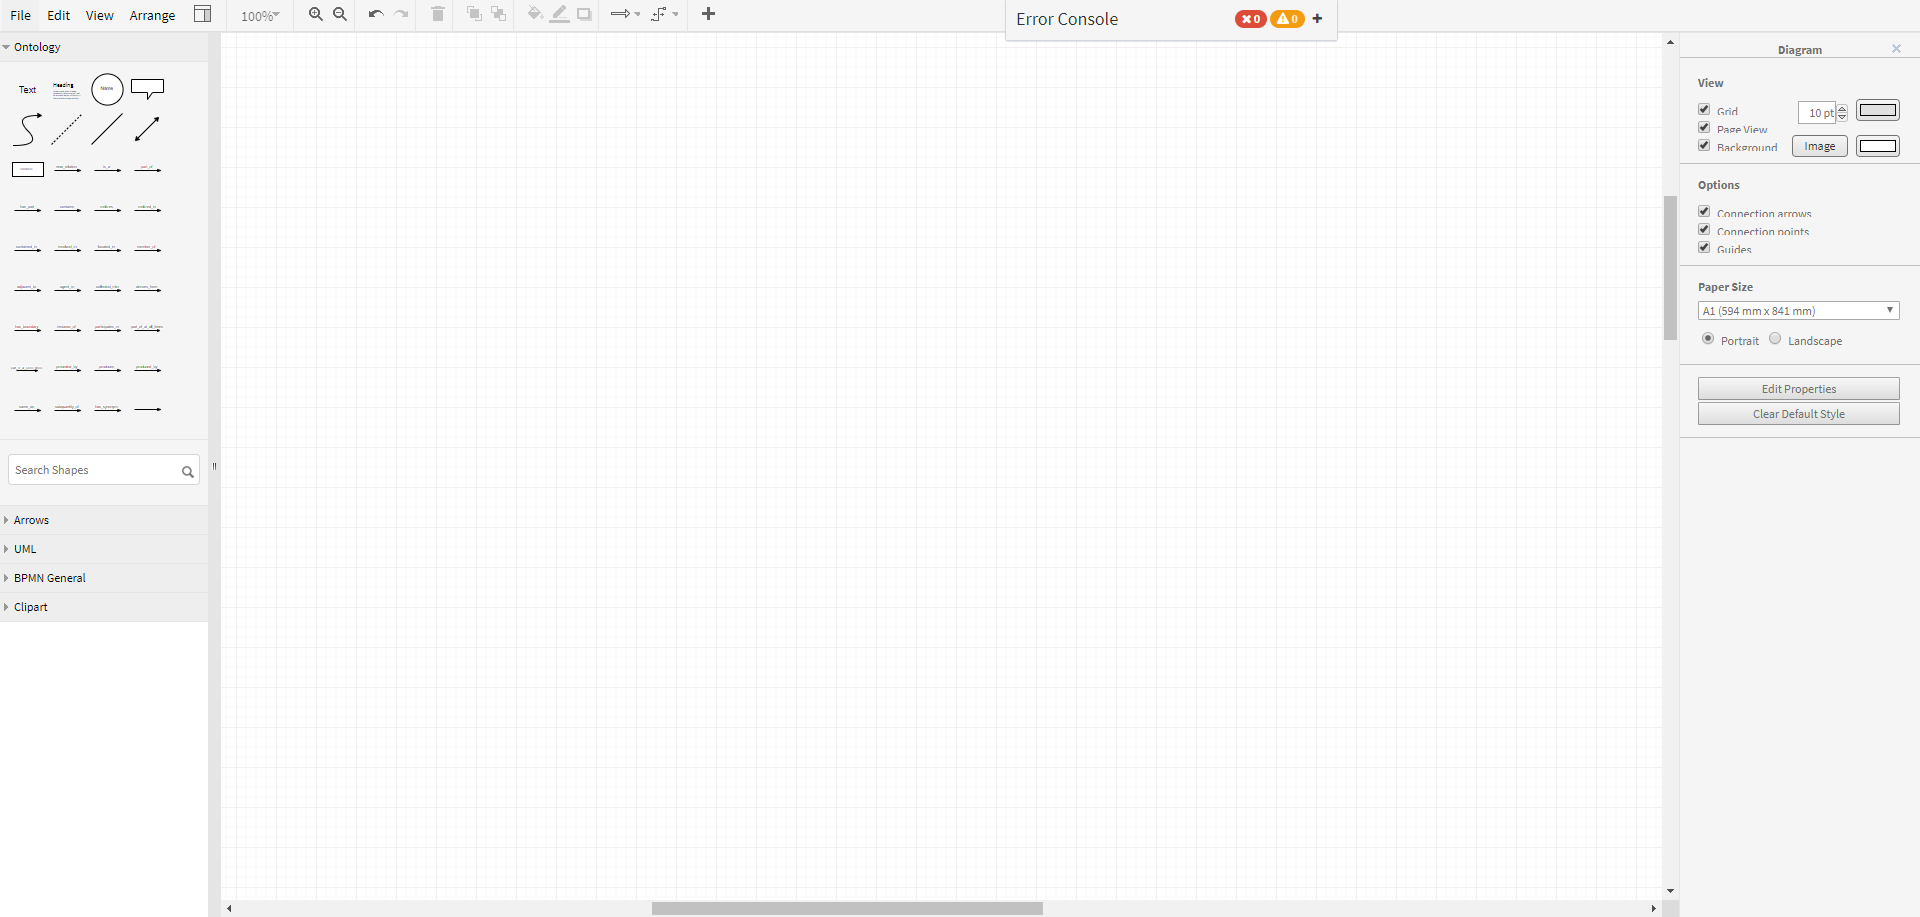
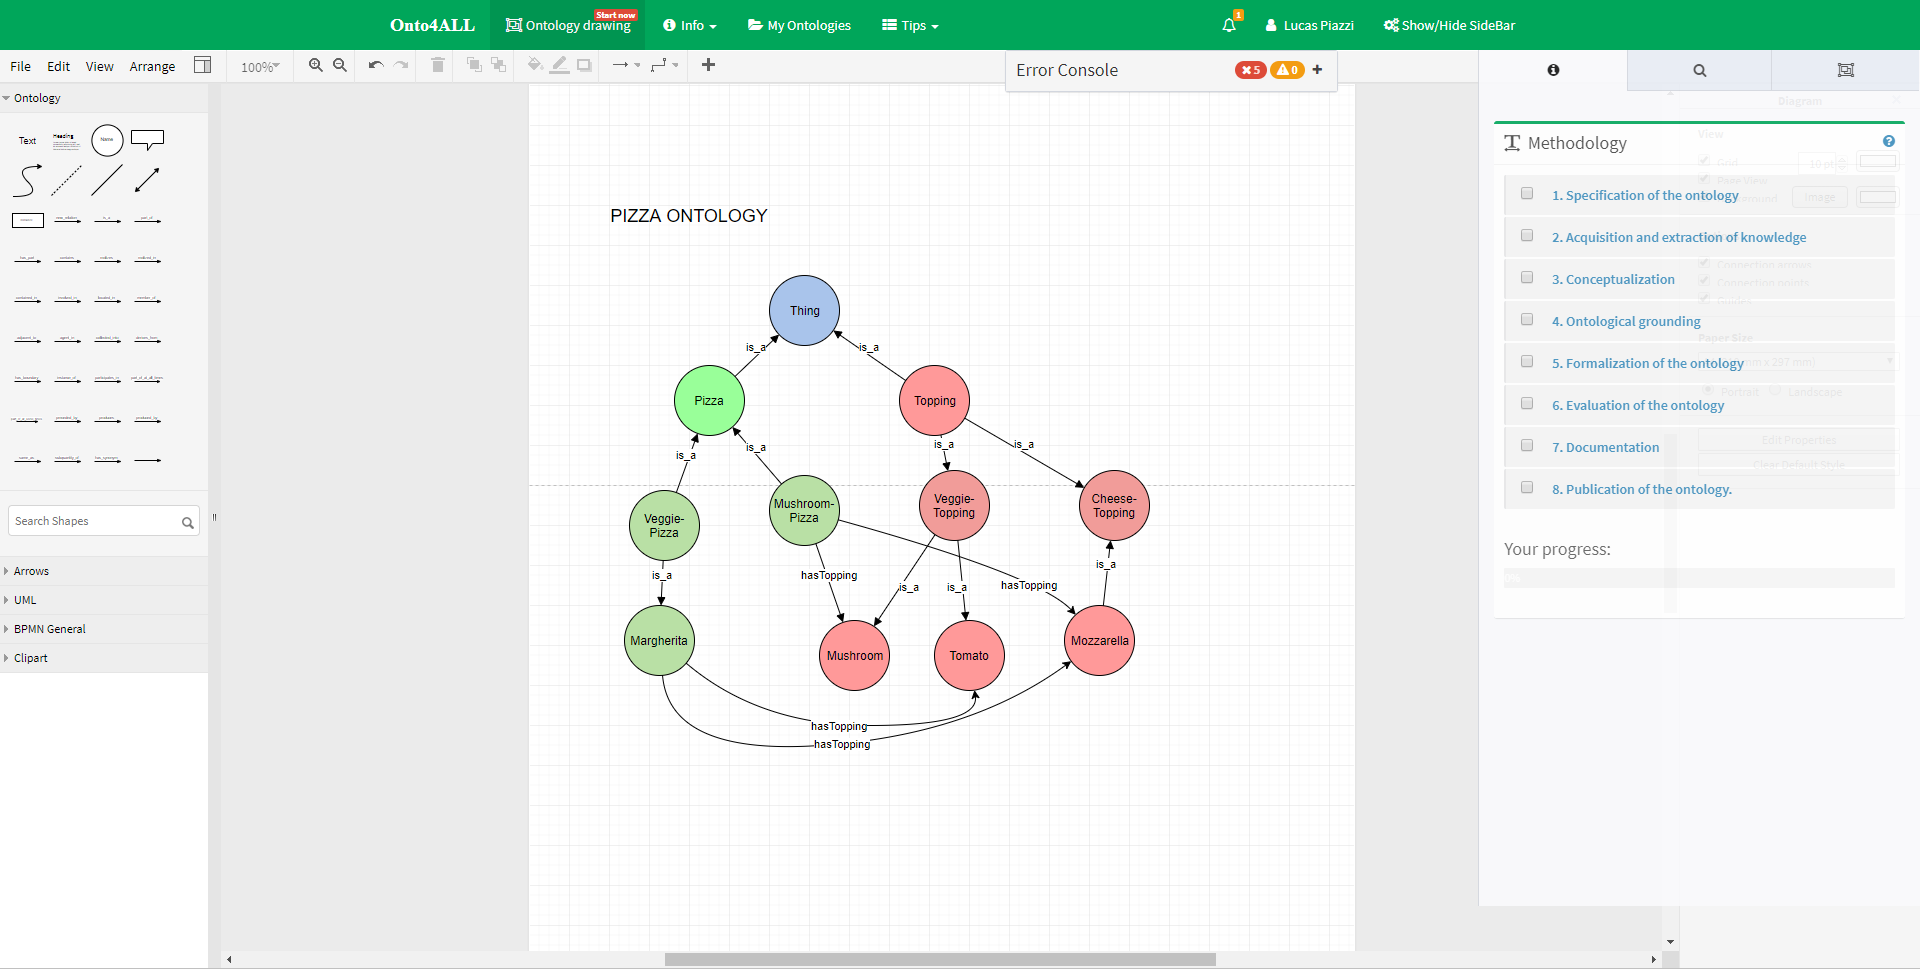
Adição de novas imagens /Correções de CSS / Adição do índice de erros / Adição de detalhes

diff --git a/public/js/Sidebar.js b/public/js/Sidebar.js
@@ -156,14 +156,14 @@ Sidebar.prototype.dropTargetDelay = 200;
 Sidebar.prototype.gearImage = STENCIL_PATH + '/clipart/Gear_128x128.png';
 
 /**
- * Specifies the width of the thumbnails.
+ * Specifies the width of the thumbnails. Default is 36
  */
-Sidebar.prototype.thumbWidth = 36;
+Sidebar.prototype.thumbWidth = 80;
 
 /**
- * Specifies the height of the thumbnails.
+ * Specifies the height of the thumbnails. Default is 36
  */
-Sidebar.prototype.thumbHeight = 36;
+Sidebar.prototype.thumbHeight = 80;
 
 /**
  * Specifies the padding for the thumbnails. Default is 3.
@@ -984,7 +984,7 @@ Sidebar.prototype.addOntologyPalette = function(expand)
 			'Textbox', null, null, 'text textbox textarea'),
 		this.createVertexTemplateEntry('ellipse;whiteSpace=wrap;html=1;aspect=fixed;', 80, 80, 'Name', 'Class', null, null, 'circle'),
 	    this.createVertexTemplateEntry('shape=callout;whiteSpace=wrap;html=1;perimeter=calloutPerimeter;', 120, 80, '', 'Callout', null, null, 'bubble chat thought speech message'),
-	 	this.addEntry('curve', mxUtils.bind(this, function()
+	 	/*this.addEntry('curve', mxUtils.bind(this, function()
 	 	{
 			var cell = new mxCell('', new mxGeometry(0, 0, 50, 50), 'curved=1;endArrow=classic;html=1;');
 			cell.geometry.setTerminalPoint(new mxPoint(0, 50), true);
@@ -995,10 +995,10 @@ Sidebar.prototype.addOntologyPalette = function(expand)
 
 		    return this.createEdgeTemplateFromCells([cell], cell.geometry.width, cell.geometry.height, 'Curve');
          })),
-
-	 	this.createEdgeTemplateEntry('endArrow=none;dashed=1;html=1;', 50, 50, '', 'Dashed Line', null, lineTags + 'dashed undirected no'),
-	 	this.createEdgeTemplateEntry('endArrow=none;html=1;', 50, 50, '', 'Line', null, lineTags + 'simple undirected plain blank no'),
-	 	this.createEdgeTemplateEntry('endArrow=classic;startArrow=classic;html=1;', 50, 50, '', 'Bidirectional Connector', null, lineTags + 'bidirectional'),
+*/
+	 	//this.createEdgeTemplateEntry('endArrow=none;dashed=1;html=1;', 50, 50, '', 'Dashed Line', null, lineTags + 'dashed undirected no'),
+	 	//this.createEdgeTemplateEntry('endArrow=none;html=1;', 50, 50, '', 'Line', null, lineTags + 'simple undirected plain blank no'),
+	 	//this.createEdgeTemplateEntry('endArrow=classic;startArrow=classic;html=1;', 50, 50, '', 'Bidirectional Connector', null, lineTags + 'bidirectional'),
 		this.createVertexTemplateEntry('html=1;Instance;', 110, 50, 'Instance', 'Instance', null, null, 'Class Instance'),
 		this.createEdgeTemplateEntry('html=1;verticalAlign=bottom;endArrow=block;', 80, 0, 'new_relation', 'New_Relation', null, 'uml sequence message call invoke dispatch'),
 		this.createEdgeTemplateEntry('html=1;verticalAlign=bottom;endArrow=block;', 80, 0, 'is_a', 'Is_A', null, 'uml sequence message call invoke dispatch'),
@@ -1026,7 +1026,7 @@ Sidebar.prototype.addOntologyPalette = function(expand)
 		this.createEdgeTemplateEntry('html=1;verticalAlign=bottom;endArrow=block;', 80, 0, 'same_as', 'Same_as', null, 'uml sequence message call invoke dispatch'),
 		this.createEdgeTemplateEntry('html=1;verticalAlign=bottom;endArrow=block;', 80, 0, 'subquantity_of', 'Subquantity_Of', null, 'uml sequence message call invoke dispatch'),
 		this.createEdgeTemplateEntry('html=1;verticalAlign=bottom;endArrow=block;', 80, 0, 'has_synonym', 'Has_Synonym', null, 'uml sequence message call invoke dispatch'),
-		this.createEdgeTemplateEntry('html=1;verticalAlign=bottom;endArrow=block;', 80, 0, '', '', null, 'uml sequence message call invoke dispatch'),
+		//this.createEdgeTemplateEntry('html=1;verticalAlign=bottom;endArrow=block;', 80, 0, '', '', null, 'uml sequence message call invoke dispatch'),
 
     ];
 // DISPATCH POINTER

diff --git a/public/js/Compiler.js b/public/js/Compiler.js
@@ -10,6 +10,54 @@ function movementCompiler(xml) {
     console.log(xml);
     let parser, xmlDoc, missingClassProperties = "", missingRelationProperties = "";
 
+    /*
+    let pdf = new jsPDF();
+
+    pdf.setFont("times");
+    pdf.setFontStyle("normal");
+    pdf.text('Onto4ALL Editor - Error Log', 105, 20, null, null, 'center');
+
+
+    var generateData = function (amount) {
+        var result = [];
+        var data =
+            {
+                id: "1",
+                error_name: "100",
+                description: "GameGroup",
+                error_type: "XPTO2",
+
+            };
+        for (var i = 0; i < amount; i += 1) {
+            data.id = (i + 1).toString();
+            result.push(Object.assign({}, data));
+        }
+        return result;
+    };
+
+    function createHeaders(keys) {
+        var result = [];
+        for (var i = 0; i < keys.length; i += 1) {
+            result.push({
+                'id' : keys[i],
+                'name': keys[i],
+                'prompt': keys[i],
+                'width': 65,
+                'align': 'center',
+                'padding': 0
+            });
+        }
+        return result;
+    }
+
+
+
+    var headers = createHeaders(["id", "error_name", "description", "error_type"]);
+
+    var doc = new jsPDF({ putOnlyUsedFonts: true, orientation: 'landscape' });
+    doc.table(1, 1, generateData(10), headers, { autoSize: true });
+    */
+
     parser = new DOMParser();
     xmlDoc = parser.parseFromString(xml, "text/xml");
     // Each of theses error has a unique Id used for searching for the error in the DOM Elements

diff --git a/public/js/Dialogs.js b/public/js/Dialogs.js
@@ -1295,35 +1295,6 @@ var EditDataDialog = function (ui, cell) {
     newProp.style.whiteSpace = 'nowrap';
     newProp.style.marginTop = '6px';
 
-    if(cell.isEdge())
-    {
-        var label = document.createElement('label');
-        label.style.marginRight ='4px';
-        label.innerHTML = 'Fuctional';
-
-        var checkbox = document.createElement('input');
-        checkbox.setAttribute('type', 'radio');
-        checkbox.setAttribute('name', 'checkbox');
-        checkbox.setAttribute('value', 'functional');
-        checkbox.innerHTML = 'Functional';
-        checkbox.innerText = 'Functional';
-
-        var label2 = document.createElement('label');
-        label2.style.marginRight ='4px';
-        label2.innerHTML = 'Inverse Fuctional';
-
-        var checkbox1 = document.createElement('input');
-        checkbox1.setAttribute('type', 'radio');
-        checkbox1.setAttribute('name', 'checkbox');
-        checkbox1.setAttribute('value', 'functional');
-
-        top.appendChild(label);
-        top.appendChild(checkbox1);
-        top.appendChild(label2);
-        top.appendChild(checkbox);
-
-    }
-
     var nameInput = document.createElement('input');
     nameInput.setAttribute('placeholder', mxResources.get('enterPropertyName'));
     nameInput.setAttribute('type', 'text');

diff --git a/public/css/mxgraph/grapheditor.css b/public/css/mxgraph/grapheditor.css
@@ -40,6 +40,7 @@ html {
     margin-top: 18px;
 }
 
+
 .geMenubarContainer {
     position: absolute;
     padding-top: 50px;

diff --git a/resources/views/error-index.blade.php b/resources/views/error-index.blade.php
@@ -1,0 +1,123 @@
+@extends('adminlte::page')
+
+@section('title', 'AdminLTE')
+
+@section('content_header')
+
+@stop
+
+@section('content')
+
+    <div class="box box-success">
+        <div class="box-header with-border">
+            <i class="fa fa-table"></i>
+
+            <h1 class="box-title">Error Index</h1>
+        </div>
+        <!-- /.box-header -->
+        <div class="box-body">
+            <h5>Here you can find all errors and warnings tracked by our Editor at the moment.</h5>
+        </div>
+        <!-- /.box-body -->
+    </div>
+
+    <div class="box box-danger">
+        <div class="box-header">
+            <h3 class="box-title">Errors</h3>
+        </div>
+        <!-- /.box-header -->
+        <div class="box-body no-padding">
+            <table class="table table-striped">
+                <tbody><tr>
+                    <th style="width: 10px">Id</th>
+                    <th>Name</th>
+                    <th>Description</th>
+                    <th style="width: 40px">Type</th>
+                </tr>
+                <tr>
+                    <td>1</td>
+                    <td>Equal Class Names</td>
+                    <td>Occurs when you have two classes with the same name, except the default 'Name' class</td>
+                    <td>Inconsistency</td>
+                </tr>
+
+                <tr>
+                    <td>2</td>
+                    <td>Equal Relation Between Classes</td>
+                    <td>Occurs when you have 2 equal relations pointing to the same classes.</td>
+                    <td>Imprecision</td>
+                </tr>
+
+                <tr>
+                    <td>3</td>
+                    <td>instance_of Relation Between Classes</td>
+                    <td>Occurs when you have 2 classes connected by a instance_of relation. You cant have a instance_of relation between two classes. It must be between one class and one instance</td>
+                    <td></td>
+                </tr>
+
+                <tr>
+                    <td>4</td>
+                    <td>Wrong Relation</td>
+                    <td>Occurs when a instance and a class have a relation different than 'instance_of' between them. You can only have a instance_of relation between a class and a instance</td>
+                    <td></td>
+                </tr>
+
+                <tr>
+                    <td>5</td>
+                    <td>inverseOf Invalid Name</td>
+                    <td>Occurs when the Inverse Of property have the same name of the relation</td>
+                    <td></td>
+                </tr>
+
+                <tr>
+                    <td>6</td>
+                    <td>Missing Class Properties</td>
+                    <td>Occurs when you start to fill the class properties but don't fulfill all the required fields</td>
+                    <td></td>
+                </tr>
+
+                <tr>
+                    <td>7</td>
+                    <td>Missing Relation Properties</td>
+                    <td>Occurs when you start to fill the relation properties but don't fulfill all the required fields</td>
+                    <td></td>
+                </tr>
+
+                <tr>
+                    <td>8</td>
+                    <td>Excess of Relations</td>
+                    <td>Occurs when you have more than one relation between two classes</td>
+                    <td></td>
+                </tr>
+
+                <tr>
+                    <td>9</td>
+                    <td>Multiple Inheritance</td>
+                    <td>Occurs when a class have multiple inheritance. A class can't be the domain of more than one is_a relation</td>
+                    <td></td>
+                </tr>
+                </tbody>
+            </table>
+        </div>
+        <!-- /.box-body -->
+    </div>
+
+    <div class="box box-warning">
+        <div class="box-header">
+            <h3 class="box-title">Warnings</h3>
+        </div>
+        <!-- /.box-header -->
+        <div class="box-body no-padding">
+            <table class="table table-striped">
+                <tbody>
+                <tr>
+                    <td>1</td>
+                    <td>Relation Not Connected</td>
+                    <td>Occurs when one of your relations is not fully connected to a class or instance</td>
+                </tr>
+                </tbody>
+            </table>
+        </div>
+        <!-- /.box-body -->
+    </div>
+@stop

diff --git a/resources/views/index.blade.php b/resources/views/index.blade.php
@@ -59,6 +59,7 @@
     <script type="text/javascript" src="js/Compiler.js"></script>
     <!-- Search Script -->
     <script defer type="text/javascript" src="js/SearchTip.js"></script>
+    <script src="https://cdnjs.cloudflare.com/ajax/libs/jspdf/1.5.3/jspdf.debug.js" integrity="sha384-NaWTHo/8YCBYJ59830LTz/P4aQZK1sS0SneOgAvhsIl3zBu8r9RevNg5lHCHAuQ/" crossorigin="anonymous"></script>
 
 @stop
 
@@ -118,10 +119,10 @@
         <!-- Create the tabs -->
         <ul class="nav nav-tabs nav-justified control-sidebar-tabs">
             <li class=""><a href="#control-sidebar-theme-demo-options-tab" data-toggle="tab" aria-expanded="false"><i
-                            class="fa fa-fw fa-info-circle"></i></a></li>
+                            class="fa fa-fw fa-info-circle"></i> Methodology</a></li>
             <li class="active"><a href="#control-sidebar-home-tab" data-toggle="tab" aria-expanded="true"><i
-                            class="fa fa-search"></i></a></li>
-            <li><a href="#control-sidebar-settings-tab" data-toggle="tab"><i class="fa fa-object-group"></i></a></li>
+                            class="fa fa-search"></i> Tips</a></li>
+            <li><a href="#control-sidebar-settings-tab" data-toggle="tab"><i class="fa fa-object-group"></i> Ontologies</a></li>
         </ul>
 
         <div class="tab-content">
@@ -665,6 +666,7 @@
                                 performed in the menu “Ontology drawing”, clicking under a class or relation with the
                                 right button of the mouse and choosing the function Edit Properties in the submenu (or selecting the class and pressing CTRL + M));
                                 <img alt="properties" src="css/images/Methodology/propriedades.png">
+                                <img style="width: 100%" alt="properties" src="css/images/Methodology/class-properties.png">
                             </li>
                             <li>
                                 5.5) to create instances for ontological classes (in the Onto4AllEditor, this activity must
@@ -678,6 +680,7 @@
                                 ”, clicking under a class or relation with the right button of the mouse and
                                 choosing the function Edit Properties in the submenu (or selecting the relation and pressing CTRL + M)).
                                 <img style="width: 100%" alt="properties" src="css/images/Methodology/relation.png">
+                                <img style="width: 100%" alt="properties" src="css/images/Methodology/relation-properties.png">
                             </li>
                         </ul>
 

diff --git a/resources/views/tutorial.blade.php b/resources/views/tutorial.blade.php
@@ -30,7 +30,6 @@
                     <ol>
                         <a href="#diagram"><li>Diagrama</li></a>
                         <a href="#rules"><li>Barra de regras</li></a>
-                        <a href="#tips"><li>Dicas</li></a>
                         <a href="#ontology-palette"><li>Paleta de ontologias</li></a>
                         <a href="#other-palettes"><li>Outras paletas</li></a>
                         <a href="#ontology-history"><li>Histórico de ontologias</li></a>
@@ -272,26 +271,6 @@
                     </div>
                     <div class="col-md-3">
                         <img alt="class image" src="/css/images/rule2.png">
-                    </div>
-                </div>
-        </div>
-    </div>
-
-    <div id="tips" class="box box-solid">
-        <div class="box-header with-border">
-            <h3 class="box-title">Dicas</h3>
-        </div>
-        <div class="box-body">
-            <dd>Ao chegar na página do diagrama, serão exibidas, no canto inferior esquerdo, algumas dicas de uso do Onto4All.</dd>
-                <div class="row">
-                    <div class="col-md-6">
-                        <ul>
-                            <li>Ao fechar uma dica, uma outra dica irá ser exibida no lugar da anterior.</li>
-                            <li>Ao clicar no botão <strong>Hide Tips</strong>, no canto superior direito, as dicas serão fechadas.</li>
-                        </ul>
-                    </div>
-                    <div class="col-md-6">
-                        <img alt="class image" src="/css/images/tip.png">
                     </div>
                 </div>
         </div>

diff --git a/config/adminlte.php b/config/adminlte.php
@@ -124,12 +124,17 @@ return [
                 [
                     'text' => 'Tutorial',
                     'url' => '/tutorial',
-                    'icon' => 'info',
+                    'icon' => 'info-circle'
+                ],
+                [
+                    'text' => 'Error Index',
+                    'url' => '/errorIndex',
+                    'icon' => 'close',
                 ],
                 [
                     'text' => 'About Us',
                     'url' => '/aboutUs',
-                    'icon' => 'book',
+                    'icon' => 'book'
                 ]
             ],
         ],

diff --git a/routes/web.php b/routes/web.php
@@ -53,6 +53,7 @@ Route::post('/saveXML', 'HomeController@saveXML');
 Route::post('/exportOWL', 'HomeController@exportOWL');
 Route::get('/aboutUs', 'HomeController@aboutUs');
 Route::get('/tutorial', 'HomeController@tutorial')->name('tutorial');
+Route::get('/errorIndex', 'HomeController@errorIndex')->name('errorIndex');
 Route::get('/open');
 Route::post('/export', 'HomeController@export');
 Route::post('/exportImage', 'HomeController@exportImage');

diff --git a/app/Http/Controllers/HomeController.php b/app/Http/Controllers/HomeController.php
@@ -52,6 +52,14 @@ class HomeController extends Controller
     }
 
     /**
+     * @return \Illuminate\Contracts\View\Factory|\Illuminate\View\View
+     */
+    public function errorIndex()
+    {
+        return view('error-index');
+    }
+
+    /**
      * Save the editor diagram into a XML file.
      * @param Request $request
      * @return Response
